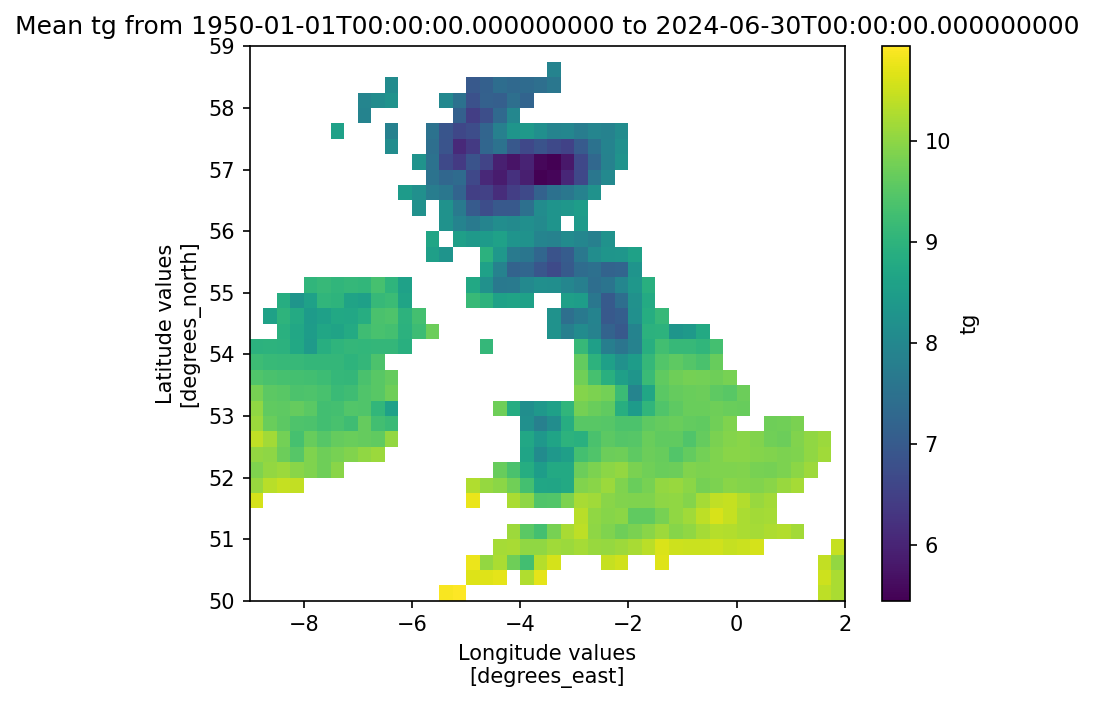
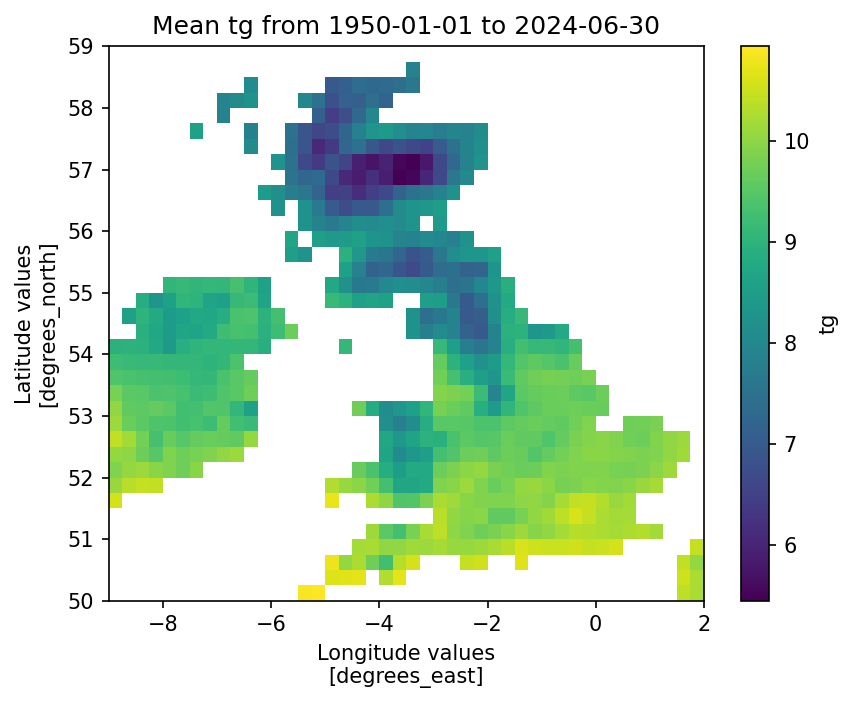
changed the mean_functions.py code and ran to create yearly mean plots.

diff --git a/scripts/mean_functions.py b/scripts/mean_functions.py
@@ -1,8 +1,13 @@
+
 import xarray as xr
 import os
 import sys
 from netCDF4 import Dataset
 import matplotlib.pyplot as plt
+import pandas as pd
+import numpy as np
+
+
 
 def check_nc_file(file_path):
     if not os.path.exists(file_path):
@@ -34,24 +39,70 @@ def plot_time_mean(ds, var="tg", out_path="/root/climate_eof_group_project/plots
     """Compute mean of `var` over time and save plot to `out_path`."""
     temp_mean = calculate_time_mean(ds)
     plt.figure()
-    ax = temp_mean.plot()
-    plt.title(f"Mean {var} from {ds.time.min().values} to {ds.time.max().values}")
+    temp_mean.plot()
+    start_date = str(ds.time.min().values)[:10]
+    end_date = str(ds.time.max().values)[:10]
+    # Use variable’s long_name if available
+    var_long_name = getattr(ds[var], "long_name", var)
+    var_name = getattr(ds[var], "name", var)
+    # plt.title(f"Mean {var_long_name} from {start_date} to {end_date}")
+    plt.title(f"Mean {var_name} from {start_date} to {end_date}")
     plt.savefig(out_path, dpi=150, bbox_inches="tight")
     plt.close()  # good practice in scripts
     print(f"Plot saved to: {out_path}")
 
-# def plot_time_mean():
-#     temp_mean = calculate_time_mean(ds)
-#     print(temp_mean.shape)
-#     print(temp_mean)
-#     temp_mean.plot()
-#     plt.title('mean ground temperature from 1/1/1950 to 30/06/2024')
-#     # plt.show()
-#     plt.savefig("temp_mean.png", dpi=150, bbox_inches="tight")
-#     print("Plot saved to temp_mean.png")
-
 def calculate_time_mean(ds):
     return ds["tg"].mean(dim="time")
+
+def calculate_monthly_mean(ds):
+    return ds.resample(time="1M").mean()
+
+def calculate_yearly_mean(ds):
+    return ds.resample(time="1YE").mean()
+
+def plotting_yearly_mean(ds,var="tg", out_dir="/root/climate_eof_group_project/plots/yearly_mean/"):
+    
+    # calculate the yearly mean:
+    yearly_ds = calculate_yearly_mean(ds)
+    da = yearly_ds[var]
+
+    lats = yearly_ds.coords['latitude'].values
+    lons = yearly_ds.coords['longitude'].values
+
+    # 3. Compute global vmin/vmax for consistent color scaling
+    vmin = float(da.min(skipna=True).values)
+    vmax = float(da.max(skipna=True).values)
+
+    # create the diectory for the plots:
+    os.makedirs(out_dir, exist_ok=True)
+
+    # cmap = "RdYlBu_r",
+
+    # loop to plot over the yearly data:
+    times = da.time.values
+    print(times)
+    var_name = getattr(ds[var], "name", var)
+
+    for idx, t in enumerate(times):
+        single = da.isel(time=idx)
+
+        # nice date label (YYYY)
+        year_label = pd.to_datetime(t).strftime("%Y")
+
+        fig = plt.figure()
+        ax = plt.axes()
+        # single.plot()
+        mesh = ax.pcolormesh(lons, lats, single.values, shading="auto", vmin=vmin, vmax=vmax, cmap="RdYlBu_r")
+        cbar = fig.colorbar(mesh, ax=ax, orientation="vertical")
+        cbar.set_label(var)
+        plt.title(f"Mean {var_name} for {year_label}")
+        plt.savefig(out_dir + f'mean {var} for {year_label}', dpi=150, bbox_inches="tight")
+        fig.tight_layout()
+        plt.close()
+        print(f'sved fig for {year_label}')
+
+
+
 
 print('Example data for the UK can be found here on the github repository: /root/climate_eof_group_project/Data/Example_Data/e-obs_UK_ground_temp.nc' )
 data_path = input('Input the path to the data you want to analyse: ')
@@ -59,3 +110,15 @@ data_path = input('Input the path to the data you want to analyse: ')
 check_nc_file(data_path)
 ds = read_data(data_path)
 plot_time_mean(ds)
+monthly_mean = calculate_monthly_mean(ds)
+# print(monthly_mean)
+print('\nshape of monthly mean:')
+print(monthly_mean.tg.shape)
+yearly_mean = calculate_yearly_mean(ds)
+# print(monthly_mean)
+print('\nshape of yearly mean:')
+print(yearly_mean.tg.shape)
+
+plotting_yearly_mean(ds)
+
+# print(ds.tg.long_name)
